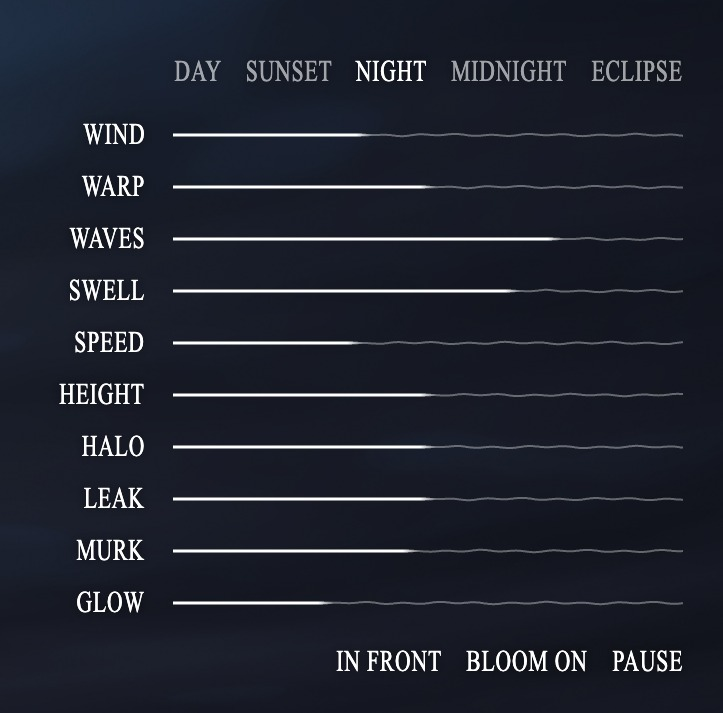
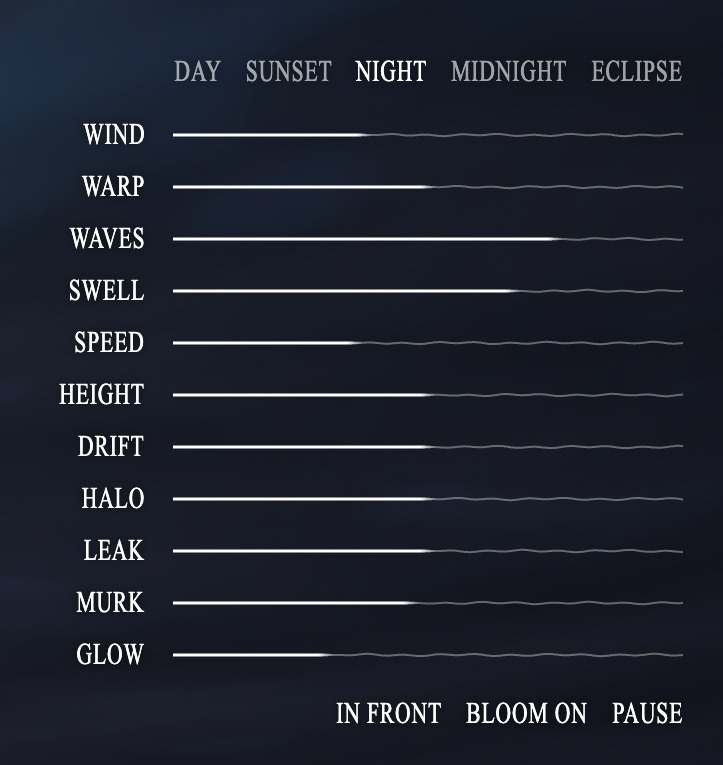
Add Drift: the moon travels up or down through the frame
Drift sends the moon steadily up or down through the frame, wrapping round at
the edges, while the sky stays put (?drift=). The videos' material (promo/)
stays out of git.

diff --git a/public/games/flymetothemoon/index.html b/public/games/flymetothemoon/index.html
@@ -65,6 +65,7 @@
   <label for="swell"><span class="squeeze">Swell</span></label><div class="line"><canvas aria-hidden="true"></canvas><input id="swell" type="range" min="0" max="1.2" step="0.01" value="0.8"></div>
   <label for="speed"><span class="squeeze">Speed</span></label><div class="line"><canvas aria-hidden="true"></canvas><input id="speed" type="range" min="0.1" max="1.5" step="0.01" value="0.6"></div>
   <label for="height"><span class="squeeze">Height</span></label><div class="line"><canvas aria-hidden="true"></canvas><input id="height" type="range" min="-1" max="1" step="0.01" value="0"></div>
+  <label for="drift"><span class="squeeze">Drift</span></label><div class="line"><canvas aria-hidden="true"></canvas><input id="drift" type="range" min="-1" max="1" step="0.01" value="0"></div>
   <label for="halo"><span class="squeeze">Halo</span></label><div class="line"><canvas aria-hidden="true"></canvas><input id="halo" type="range" min="0" max="2" step="0.01" value="1"></div>
   <label for="leak"><span class="squeeze">Leak</span></label><div class="line"><canvas aria-hidden="true"></canvas><input id="leak" type="range" min="0" max="1" step="0.01" value="0.5"></div>
   <label for="murk"><span class="squeeze">Murk</span></label><div class="line"><canvas aria-hidden="true"></canvas><input id="murk" type="range" min="0" max="1.5" step="0.01" value="0.7"></div>
@@ -767,6 +768,7 @@
   document.getElementById('swell').addEventListener('input', e => uniforms.uSwell.value = parseFloat(e.target.value));
   document.getElementById('speed').addEventListener('input', e => waveSpeed = parseFloat(e.target.value));
   document.getElementById('height').addEventListener('input', e => moonHeight = parseFloat(e.target.value));
+  document.getElementById('drift').addEventListener('input', e => moonDrift = parseFloat(e.target.value));
   document.getElementById('murk').addEventListener('input', e => uniforms.uMurk.value = parseFloat(e.target.value));
   document.getElementById('leak').addEventListener('input', e => uniforms.uLeak.value = parseFloat(e.target.value));
   document.getElementById('halo').addEventListener('input', e => uniforms.uHaloGain.value = parseFloat(e.target.value));
@@ -826,7 +828,7 @@
   }
 
   const clock = new THREE.Clock();
-  let t = 0, wt = 0, simBudget = 0, aboveT = 0, aboveTo = 0, moonHeight = 0;
+  let t = 0, wt = 0, simBudget = 0, aboveT = 0, aboveTo = 0, moonHeight = 0, moonDrift = 0, driftY = 0;
   let waveSpeed = 0.6;
   function frame() {
     const dt = Math.min(clock.getDelta(), 0.05);
@@ -856,8 +858,15 @@
     if (aboveT !== aboveTo) aboveT = reduceMotion ? aboveTo : Math.max(0, Math.min(1, aboveT + Math.sign(aboveTo - aboveT) * dt/1.4));
     const up = aboveT*aboveT*(3 - 2*aboveT);
     uniforms.uAbove.value = up;
-    moonGroup.position.y = -0.5 + 3.34*up + moonHeight*2.4 + Math.sin(t * 0.3) * 0.05;
     moonGroup.scale.setScalar(1 - 0.38*up);
+    // Drift: the moon travels steadily up or down through the frame (the sky stays as it is); once it
+    // has left one edge it comes back in at the other
+    const half = camera.position.z * Math.tan(THREE.MathUtils.degToRad(camera.fov / 2));
+    const span = 2 * (half + MOON_R * moonGroup.scale.x), low = 0.2 - span / 2;
+    if (!paused && !reduceMotion) driftY = (driftY + dt * moonDrift * 0.12 * span) % span;
+    let my = -0.5 + 3.34*up + moonHeight*2.4 + Math.sin(t * 0.3) * 0.05;
+    if (driftY !== 0) my = low + (((my + driftY - low) % span) + span) % span;
+    moonGroup.position.y = my;
     updateMoonScreen();
 
     if (bloomOn) renderBloom();
@@ -1006,7 +1015,7 @@
 
   // Settings from the address, e.g. ?sky=sunset&waves=1.2&swell=1.2&speed=0.3&bloom=0&turn=90&ui=0
   const q = new URLSearchParams(location.search);
-  for (const [key, id] of [['wind','wind'], ['warp','warp'], ['waves','chop'], ['swell','swell'], ['speed','speed'], ['height','height'], ['halo','halo'], ['leak','leak'], ['murk','murk'], ['glow','glow']]) {
+  for (const [key, id] of [['wind','wind'], ['warp','warp'], ['waves','chop'], ['swell','swell'], ['speed','speed'], ['height','height'], ['drift','drift'], ['halo','halo'], ['leak','leak'], ['murk','murk'], ['glow','glow']]) {
     if (q.has(key)) { const el = document.getElementById(id); el.value = q.get(key); el.dispatchEvent(new Event('input')); }
   }
   if (q.has('sky')) {

diff --git a/README.md b/README.md
@@ -76,7 +76,7 @@ The **In front** button sends the moon up behind the surface (it then reads **Be
 
 ![The moon behind the water by day](docs/screenshots/19-moon-behind-day.jpg)
 
-The **Height** line raises or lowers the moon, in the water or in the sky. Lowered behind the surface, it sinks into the waterline and is cut off where the window ends.
+The **Height** line raises or lowers the moon, in the water or in the sky. Lowered behind the surface, it sinks into the waterline and is cut off where the window ends. **Drift** keeps it moving: the moon travels steadily down or up through the frame, through the window and the dark water below it, and comes back in at the other edge, while the time of day stays put.
 
 ![The moon raised](docs/screenshots/20-height.jpg)
 
@@ -123,6 +123,7 @@ The controls sit in the lower right: the sky presets along the top, then plain w
 | Swell | Strength of the long swells | 0 – 1.2 | 0.8 |
 | Speed | How fast all the water moves (also slows the simulation) | 0.1 – 1.5 | 0.6 |
 | Height | Raises or lowers the moon, in the water or in the sky | −1 – 1 | 0 |
+| Drift | Sends the moon slowly down (left) or up (right) through the frame; once it leaves one edge it comes back in at the other. The sky stays as it is | −1 – 1 | 0 |
 | Halo | Strength of the glow around the big moon (on top of what the sky sets) | 0 – 2 | 1 |
 | Leak | How much scrambled light, and with the moon Behind, the moon itself, leaks into the dark water | 0 – 1 | 0.5 |
 | Murk | How cloudy the water is: the glow around the window's edge and how quickly the distance fades | 0 – 1.5 | 0.7 |
@@ -145,6 +146,7 @@ Every control can be set from the address, which is how the screenshots here wer
 ?speed=0.3                        slow motion
 ?moon=behind                      start with the moon behind the water
 ?height=1                         raise the moon (−1 lowers it)
+?drift=-0.35                      the moon sinks slowly through the frame and comes back in at the top
 ?halo=0                           no glow around the moon
 ?leak=0                           no light leaking into the dark water
 ?murk=0                           clear water (1.5 is very cloudy)
